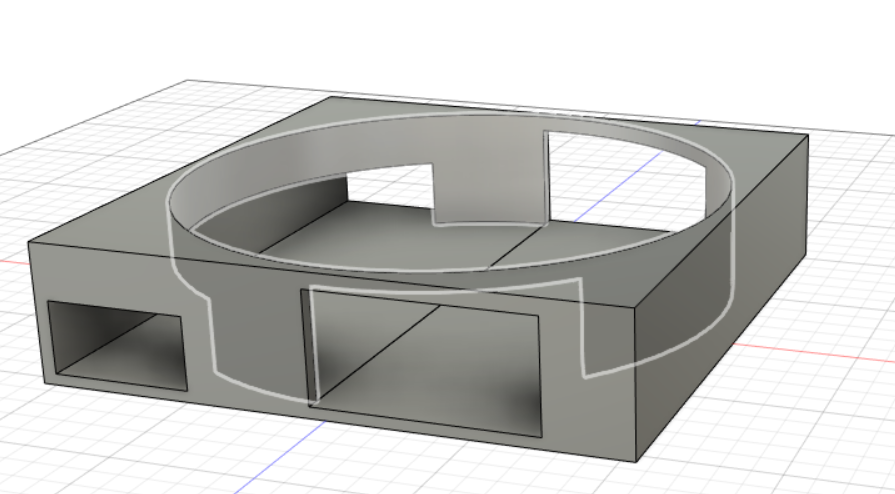
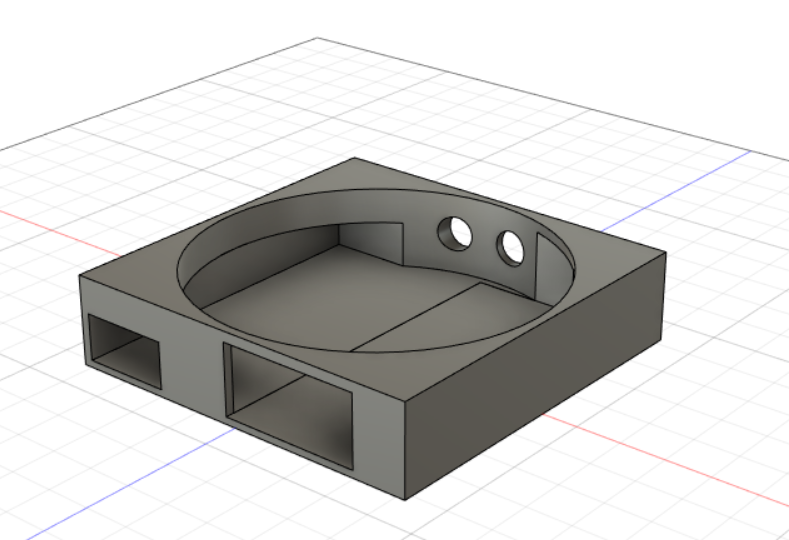
2

diff --git a/FinalProject.html b/FinalProject.html
@@ -64,7 +64,7 @@
     
 <p><img src="images/finalprojectbaseholder.PNG" width="400" height="280" alt="baseholder" /> <img src="images/finalprojectCylinder.PNG" width="320" height="300" alt="baseholder" /></p>
     
-<p>This is the design that i came out with. My mood lamp will take part of 2 components. The cylinder which will cover the LED lights. There is also the base holder which is going to fit the cylinder. The small rectangles is the for the LCD screen and for the Ultrasonic Sensor. I have measured them according to their sizes.</p>
+<p>This is the design that i came out with. My mood lamp will take part of 2 components. The cylinder which will cover the LED lights. There is also the base holder which is going to fit the cylinder. The small rectangles is the for the LCD screen and for the Ultrasonic Sensor.The one hole is for the USB wire to go through because my mood lamp is using USB wire. I might add a push button so that it can be switched on and off. I have measured them according to their sizes.</p>
     
         
     </div>
